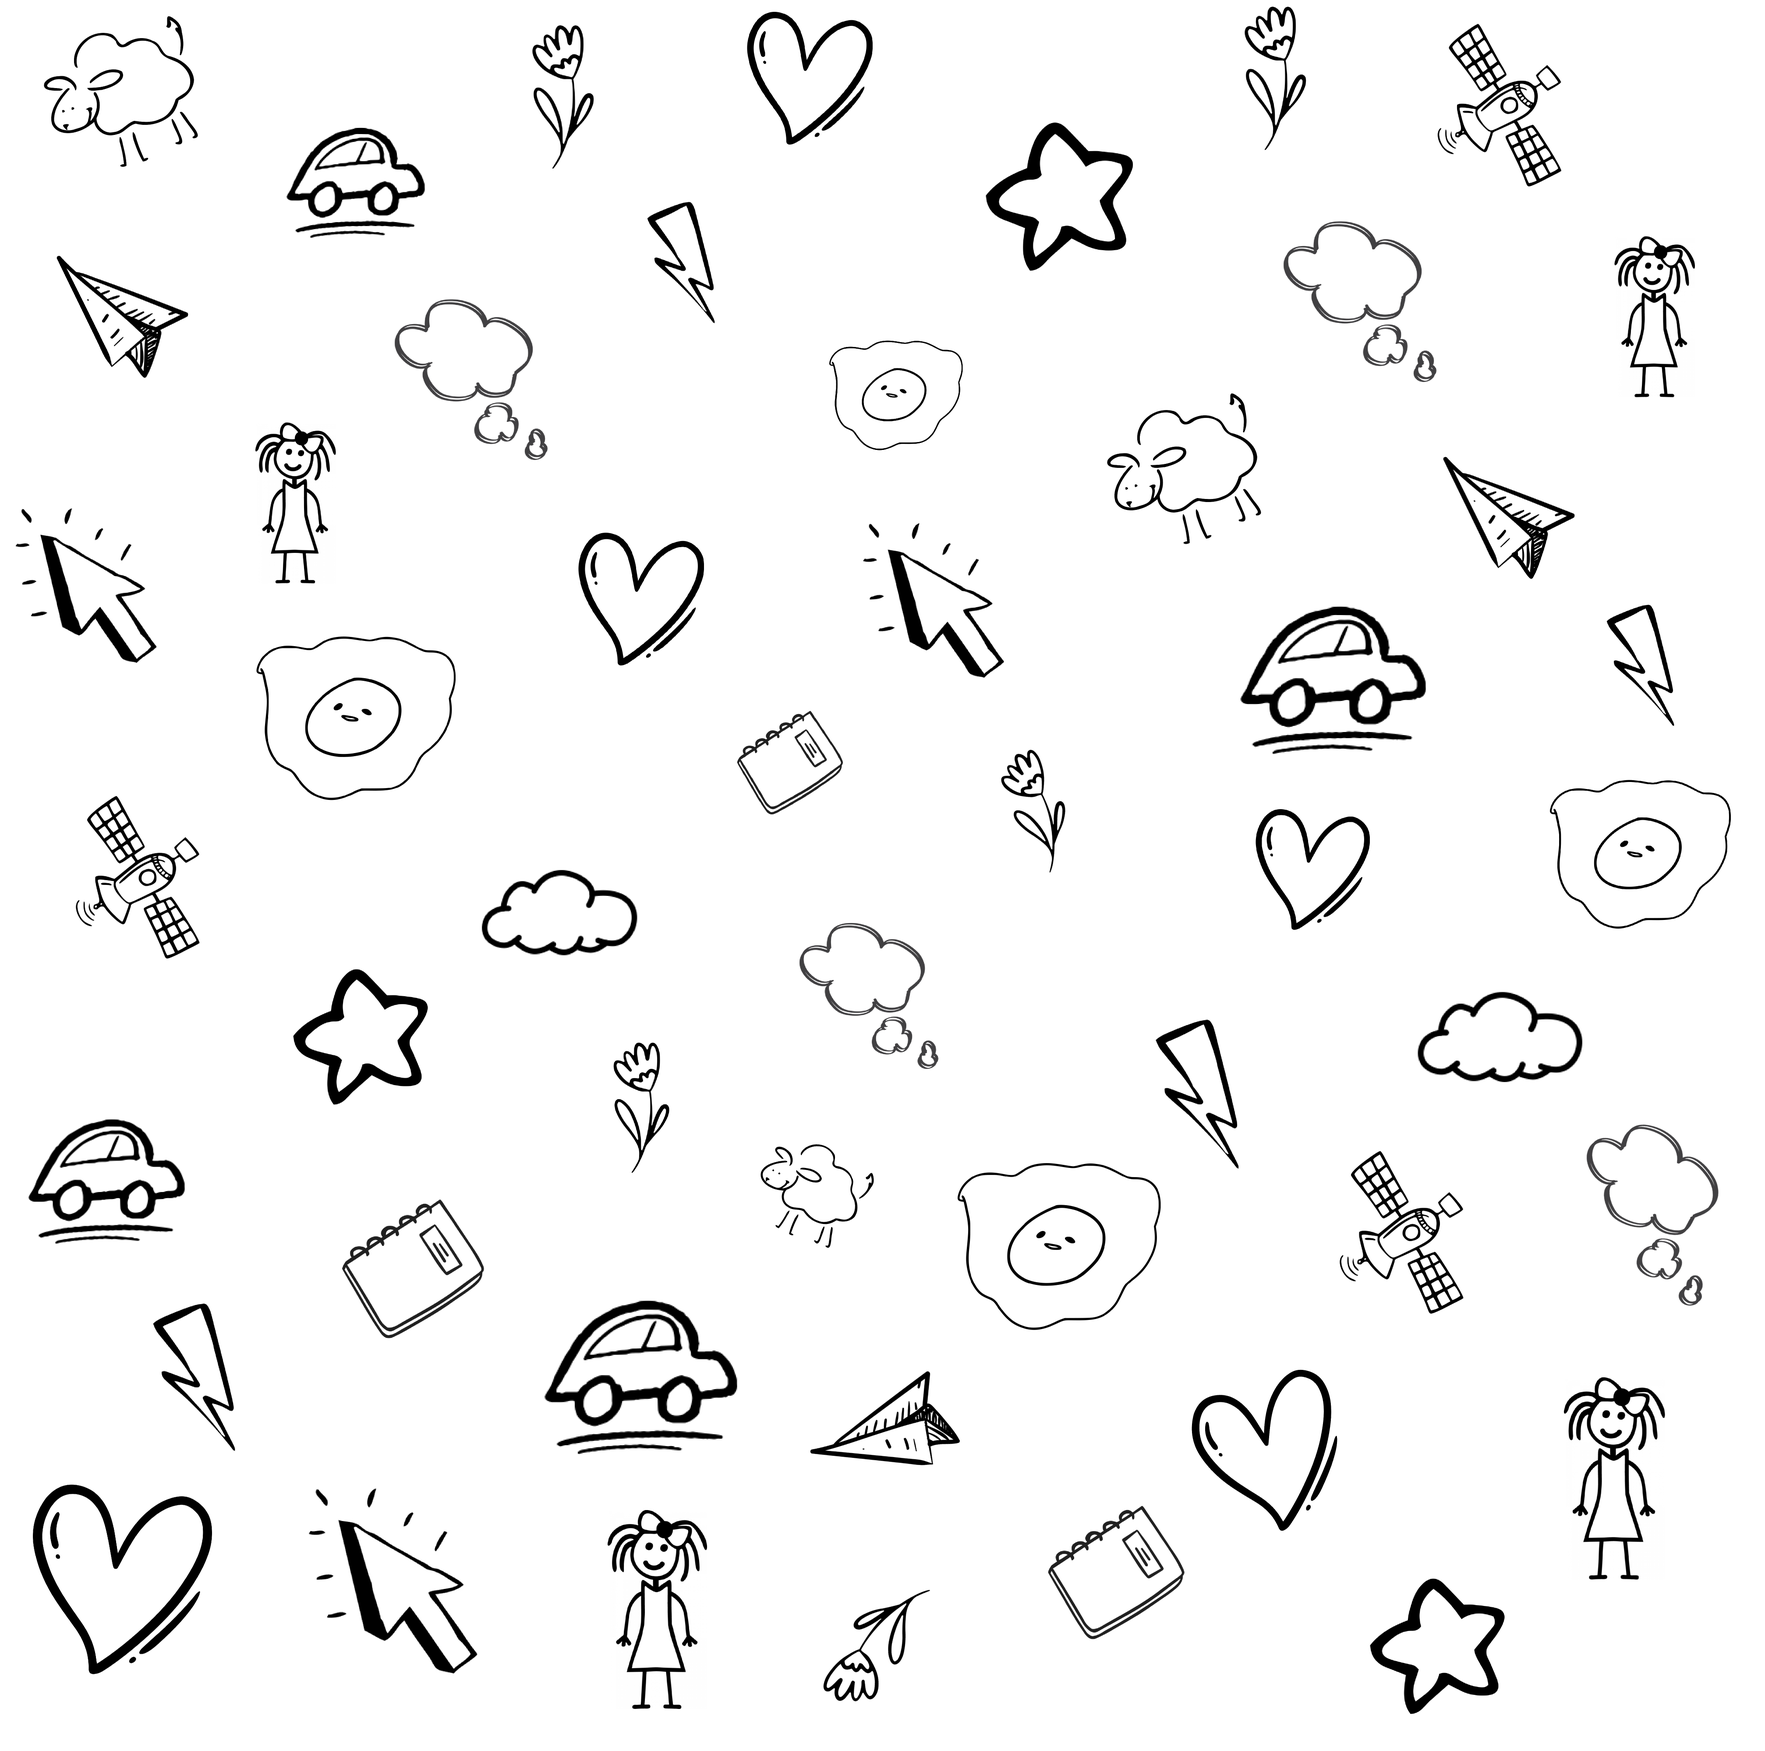
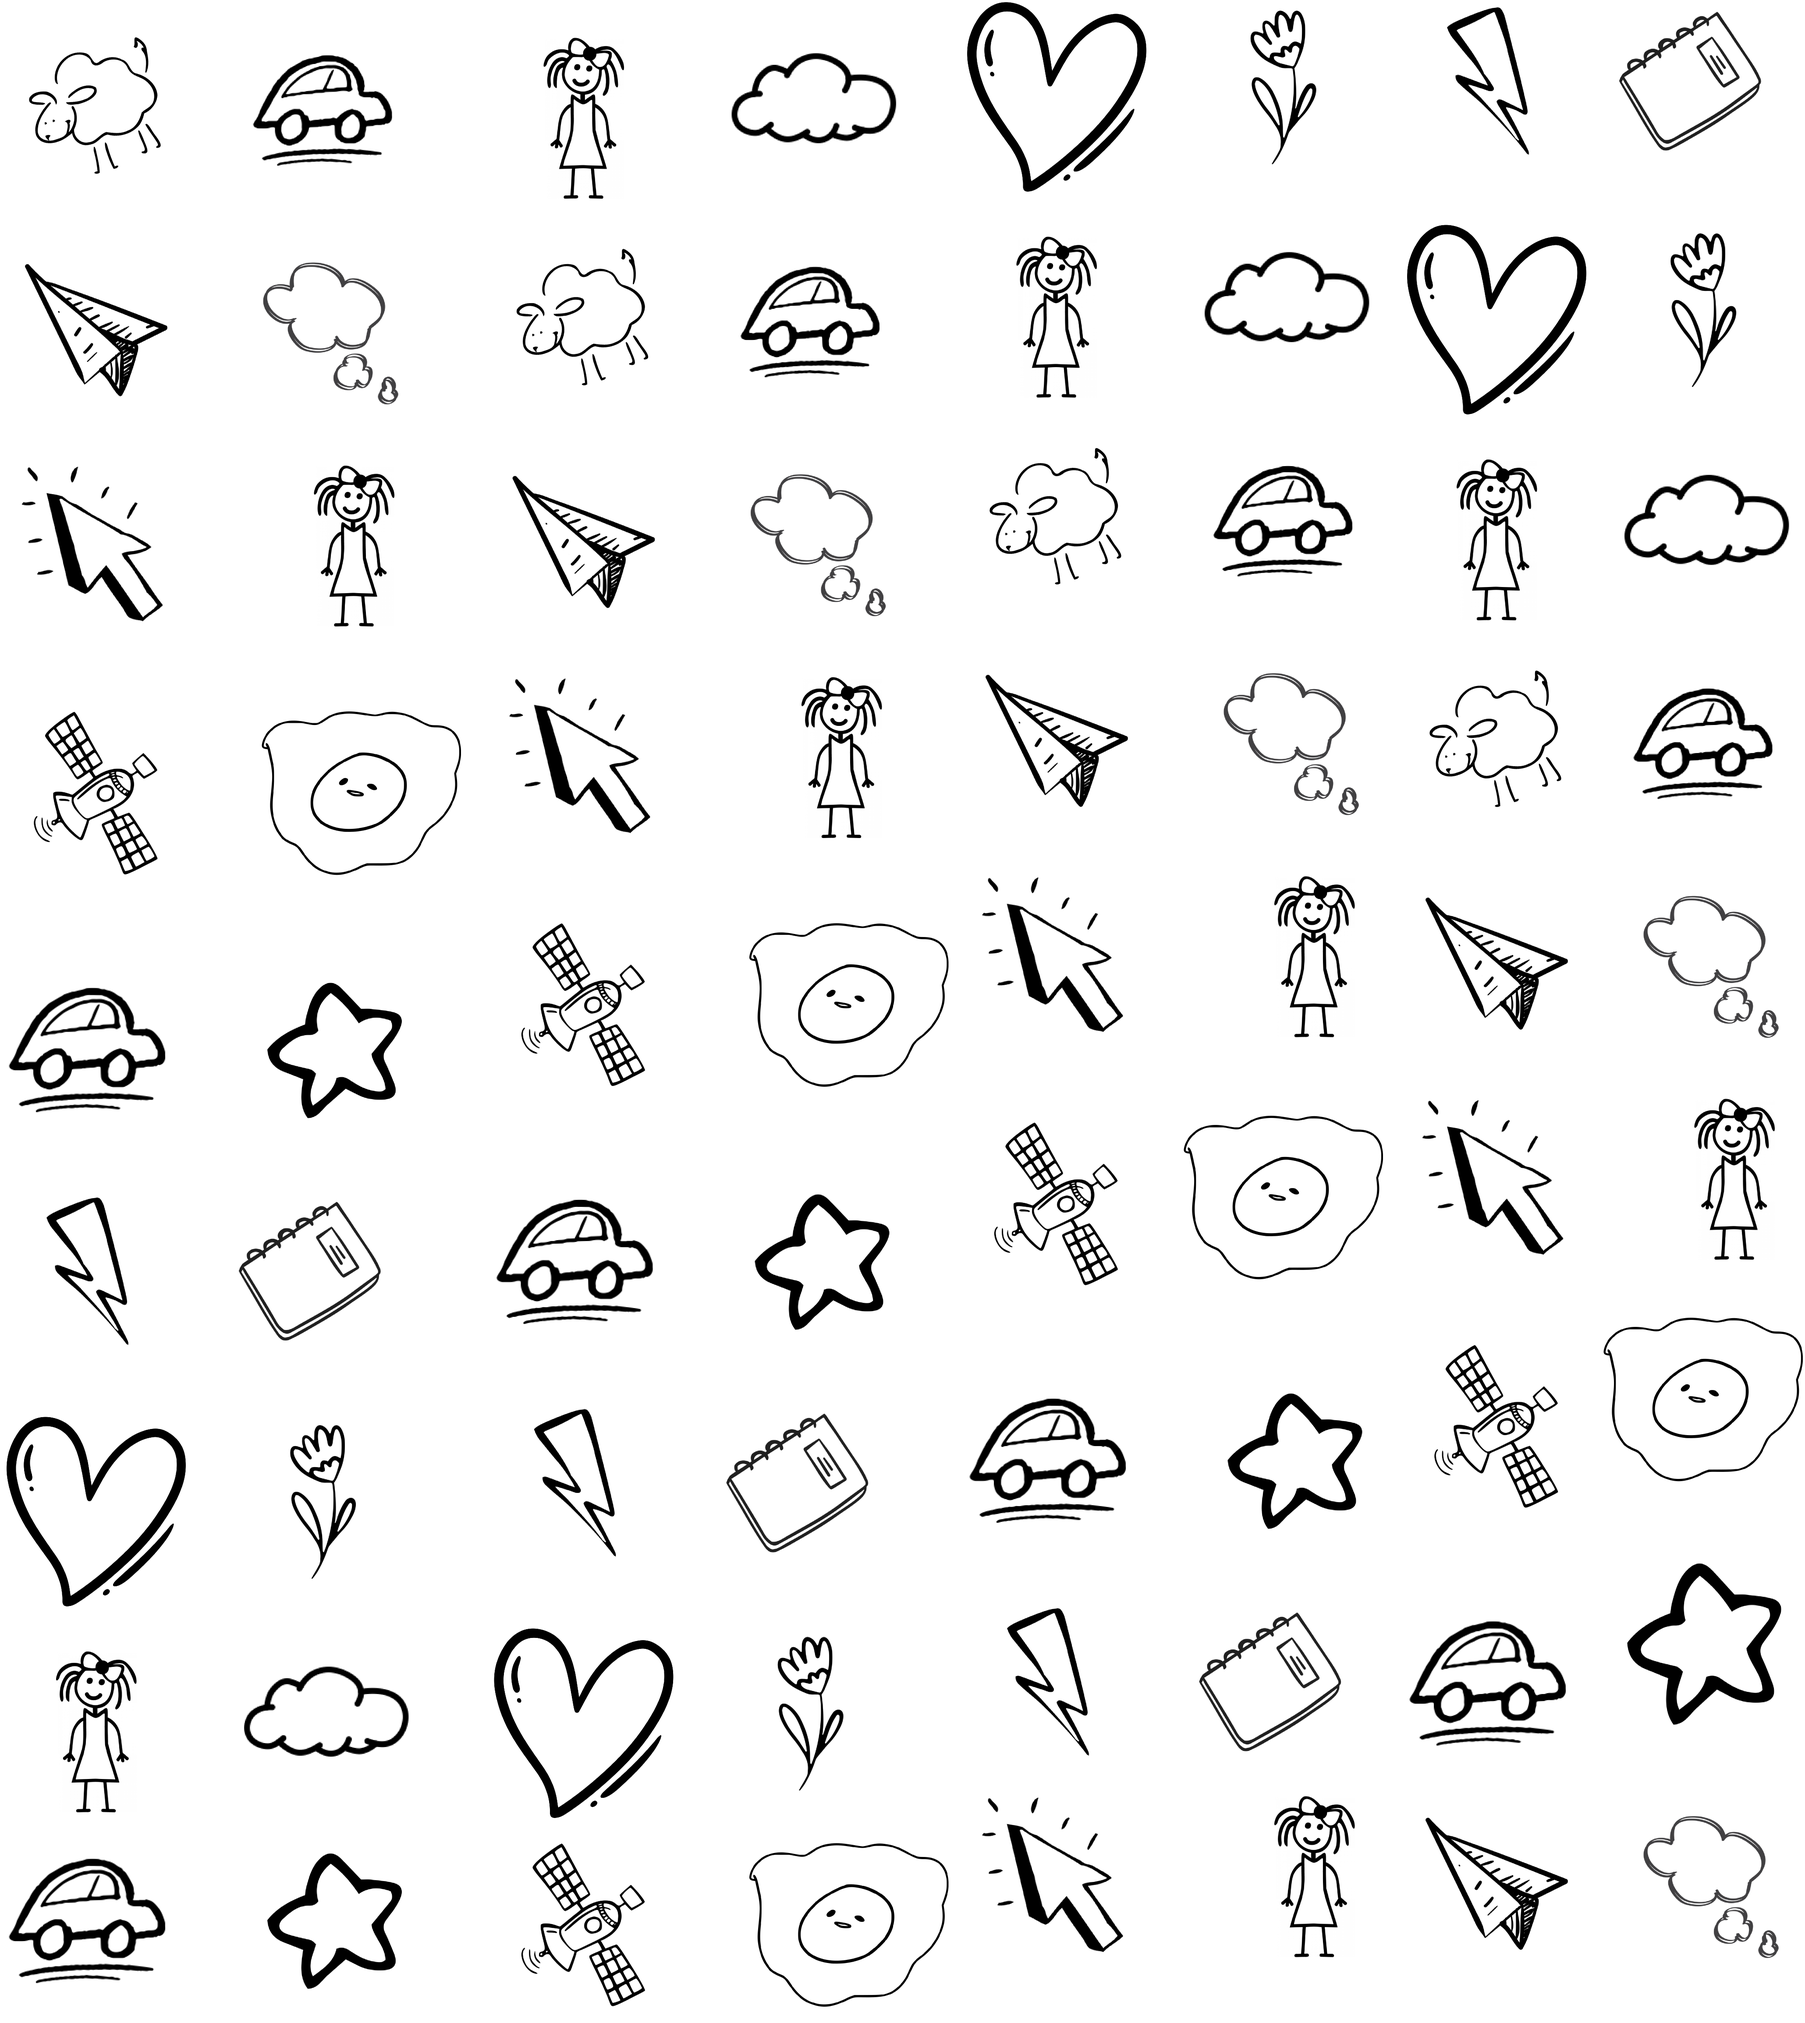
cleaned up asset/images, made background bigger and slightly slower

diff --git a/src/styles/globals.css b/src/styles/globals.css
@@ -57,10 +57,10 @@
 
 body {
     color: rgb(var(--foreground-rgb));
-    background: url('../assets/images/bg5.png');
+    background: url('../assets/images/bg.png');
     background-repeat: repeat;
-    background-size: 1000px 1000px;
-    animation: animatedBackground 20s linear infinite;
+    background-size: 2200px 2200px;
+    animation: animatedBackground 21s linear infinite;
     
 }
 
@@ -70,7 +70,7 @@ body {
     }
   /*use negative width if you want it to flow right to left else and positive for left to right*/
     to {
-      background-position: -1000px 1000px;
+      background-position: -2200px 2200px;
     }
   }
 
